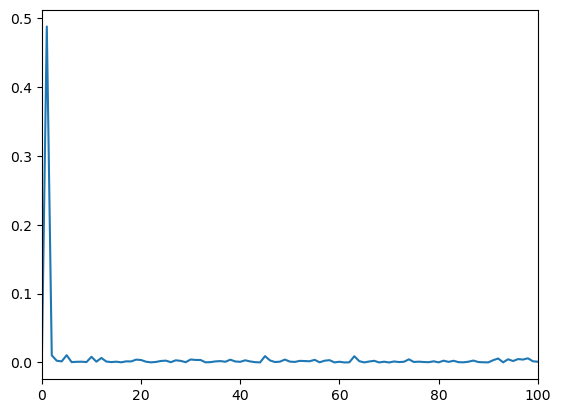
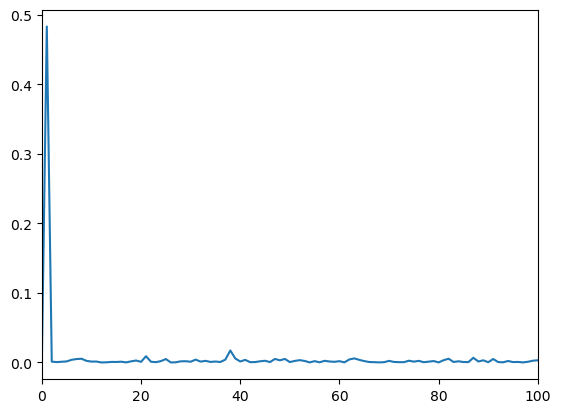
Update documentation

diff --git a/searchindex.js b/searchindex.js
@@ -1,1 +1,1 @@
-Search.setIndex({docnames:["ODE/1stODE","ODE/2ndODE","ODE/Laplace","ODE/Special_function","ODE/Sturm_Liouville","PDE/Fourier_Transform","PDE/Heat_equation","PDE/Laplace_equation","PDE/Wave_equation","README","content","intro","markdown","markdown-notebooks","notebooks"],envversion:{"sphinx.domains.c":2,"sphinx.domains.changeset":1,"sphinx.domains.citation":1,"sphinx.domains.cpp":3,"sphinx.domains.index":1,"sphinx.domains.javascript":2,"sphinx.domains.math":2,"sphinx.domains.python":2,"sphinx.domains.rst":2,"sphinx.domains.std":2,"sphinx.ext.intersphinx":1,"sphinxcontrib.bibtex":7,sphinx:56},filenames:["ODE/1stODE.md","ODE/2ndODE.md","ODE/Laplace.md","ODE/Special_function.md","ODE/Sturm_Liouville.md","PDE/Fourier_Transform.ipynb","PDE/Heat_equation.md","PDE/Laplace_equation.md","PDE/Wave_equation.md","README.md","content.md","intro.md","markdown.md","markdown-notebooks.md","notebooks.ipynb"],objects:{},objnames:{},objtypes:{},terms:{"00044472":5,"000897":[],"001":3,"001020":[],"00146583":[],"002986":[],"003242":[],"004372":[],"005068":5,"00951841":[],"020358":[],"03115555":[],"0390407":[],"04192934":[],"04475298":[],"06939441":[],"08225842":[],"08246967":[],"0th":[2,3],"0x103b4c4f0":[],"0x103ee1490":[],"0x1041099a0":[],"0x10422c4f0":5,"0x1042f94f0":[],"0x104663f70":[],"0x1047cf4f0":[],"0x104d22520":14,"0x105418ca0":[],"0x105c99ca0":[],"0x1084a3f70":[],"0x1093454f0":[],"0x111cbd460":[],"0x1226221f0":[],"100":[3,4,5,14],"1000":[3,4,5],"103":3,"104":3,"105":3,"106":3,"108":3,"114":3,"115":3,"122":3,"126":3,"127":3,"1298":5,"132":3,"133":3,"137":3,"144":6,"145":6,"146":6,"151":6,"153":6,"164":6,"1717":8,"175":8,"1783":8,"1803":4,"1809":4,"181":8,"1822":6,"184":8,"185":8,"1855":4,"187":8,"1882":4,"189":8,"191":8,"195":8,"196":8,"19680801":14,"1982":3,"199":8,"1st":[1,2,3,6,11],"2017":[11,12],"205":8,"206":8,"213":7,"215":7,"217":7,"220":7,"222":7,"252729":[],"2a_":1,"2a_0":1,"2a_n":1,"2as":2,"2dx":4,"2nd":[0,2,3,6,8,11],"2pi":4,"2sy":2,"2t_":2,"2ux":0,"2xt":3,"2xy":1,"2y_":8,"30x":3,"35x":3,"401871":5,"429565":[],"437844":[],"472986":[],"4ae":1,"4sy":2,"4t_":2,"546832":[],"57721566":3,"578260":[],"94978566":[],"95638574":[],"96410867":[],"9874316":5,"9ae":1,"\u03bb":3,"\u8f38\u51fa\u7d50\u679c":5,"case":[0,2,3,4,6,7,8],"class":11,"default":[12,13],"final":[0,1,2,4,6],"float":[3,5],"fran\u00e7oi":4,"function":[0,1,6,7,8,11,12],"h\u00f4pital":3,"import":[0,1,2,3,4,5,6,11,14],"int":[0,1,2,4,6],"long":[0,1,3,4,8],"new":[2,3,4,7],"return":5,"short":10,"try":[1,2,3,4,6,8],"while":[0,3,4,6,7,8],Adding:8,But:[3,14],For:[0,1,2,3,4,6,7,8,12,14],ODE:[2,3,4,6,8,11],ODEs:[0,1,2,3,4,11],One:[0,1,2,3,4,6,7,8],P_s:0,Such:6,That:[1,2,6,8,13],The:[0,2,6,7,8,11,12,13],Then:[0,1,2,3,4,6,8],There:[0,1,2,3,4,10,11,12,14],These:[4,8],Use:0,Using:[0,1,2,4,6,7,8],With:[1,6,7,8,13],_0e:1,__init__:5,_ioncontext:14,a_0:[3,6],a_1:[1,3,4],a_1i:4,a_2:[1,4],a_2i:4,a_even:3,a_i:1,a_k:[4,5,8],a_n:[1,3,4,6,8],a_nx:3,abil:2,abl:1,about:[0,1,2,3,4,6,8,12,13,14],abov:[0,1,2,3,4,6,7,8,11],ac_2:4,acceler:[0,3],accept:12,accord:[0,1,2,3,4,6,8],accuraci:4,achiev:4,act:2,actual:[2,4],add:[6,12],add_:14,addit:[1,2,3,4,6],adiabat:0,adjac:8,adjoint:4,advanc:[11,12],advantag:0,advect:6,after:[2,4],again:[0,1,2,3,6,12],against:8,air:0,alambert:8,alembert:11,algebra:[1,2],align:[0,1,2,3,4,6,7,8,14],all:[0,1,2,3,4,6,8,11,12,13],allow:12,along:[1,3,6,8],alpha:[0,1,2,6,8],alpha_:6,alreadi:[0,2,12],also:[0,1,2,3,4,6,7,8,11,12,13,14],altern:[1,3,7],although:4,alwai:[0,4,6,8],amount:0,amplif:3,amplitud:[3,4],analysi:[0,6,11],analyt:[0,11],analyz:1,angl:0,angular:3,ani:[0,1,2,3,4,8,12,13],anoth:[0,1,2,3,4,12],answer:[0,1,2],appar:[1,3],appear:6,appli:[0,1,2,3,4,6,7,8,11],applic:[0,3,6],approach:[0,1,4,6,7,8,11],approx_i:4,approxim:4,arang:5,arbitrari:3,area:[1,3,4],ares:6,argmax:5,argument:3,aris:[2,3],around:[1,3,4],arrai:14,asarrai:5,assign:8,associ:[1,12],assum:[0,1,2,3,4,6,7,8],atmospher:[0,1,2,3,8,11],atom:6,attempt:[6,8],au_x:6,averag:[2,3],axes:14,axi:4,b_1:4,b_1y:4,b_2:4,b_2y:4,b_k:[4,5,8],b_n:[4,6,8],b_ne:6,back:[0,1,2,3,6,7,8],background:0,balanc:[0,6],ballist:0,bar:4,base:[0,1,2,3,4,11,13],basi:[2,4,6],basic:11,becaus:[2,3,6,8],becom:[2,3],been:[2,3,4],befor:[1,2],begin:[0,1,2,3,4,6,7,8,14],behind:1,being:12,below:[0,1,2,3,4,7],bernard:0,bernoulli:11,bessel:[4,7,11],bessel_output:3,beta:[1,2,6,8],better:1,between:[0,1,2,3,4,6,8],bib:12,bibliographi:12,bibtex:12,big:6,bit:1,block:[12,13],book:[12,13,14],both:[0,1,2,3,6,7,8,11,12],bottom:2,bound:[2,3,4,6],boundari:[0,1,6,7,8,11],box:12,build:12,built:[12,13],buoyanc:0,butterfli:0,by_1:1,by_2:1,c_0:[3,4],c_1:[1,2,3,4],c_1e:[1,2,4],c_1x:1,c_1y:1,c_1y_1:1,c_2:[1,2,4],c_2e:[1,2,4],c_2x:1,c_2y:1,c_2y_2:1,c_3:[1,3],c_3e:1,c_4:1,c_4e:1,c_5:3,c_7:3,c_k:[4,5],c_n:[3,4,6,7],c_p:0,c_v:0,calcul:[0,1,2,3,4,8],calculu:11,call:[0,1,2,3,4,6,12],can:[0,1,2,3,4,6,7,8,12,13,14],care:6,carri:[0,6],cartesian:7,cast:5,categor:[0,1,11],categori:[6,11],caus:[3,6],cbook:5,cdot:[1,2,3,6],cell:12,cengag:[11,12],center:[1,4],central:8,certain:[0,1,2,4,6,7,8],certainli:0,chain:7,challeng:1,chang:[0,1,4,6,8],chao:[0,4],chapter:[1,2,3,4,6,7],character:0,characterist:[1,2,4,6,11],charl:4,check:[0,3,14],choic:[1,3],choos:[3,6,8],chosen:[4,6],circul:[0,2,3,4],circular:1,cite:12,classic:1,close:[0,1,4,6],cmap:14,code:[4,13],coef:4,coeffici:[2,3,6,8,11],cold:14,collect:3,color:14,combin:[0,1,3,4,6,7,8],come:[0,6],command:[12,13],common:0,commonmark:12,compar:[0,1],complet:[0,1,3,4,7,8],complex:[2,3,5,12],complexwarn:5,complic:[1,4,6,8],compon:2,comput:12,concentr:3,concept:[0,1,4],conclus:4,condit:[0,1,2,6,11],conjug:[1,5],connect:[0,2,4],conserv:[0,6,8],consid:[0,1,2,3,6,7,8],consin:8,consist:[2,6],constant:[0,2,3,4,6,7,8,11],constrain:[1,6],constraint:[3,6],content:[12,13],continu:[1,4],contribut:4,convect:[0,2],conveni:1,converg:[1,4],convert:[2,4,6,8,13],convolut:[4,11],coolwarm:14,coordin:[0,1,2,3,4,7,8],core:3,correspond:[0,1,2,3,4,7,8],cos:[0,1,2,3,5,6,7,8],cosh:2,count2:3,count:3,counteract:0,counterpart:2,cours:[0,1,3,4],covari:4,cover:[0,1,2,3,4,10],cramer:1,creat:[2,14],criteria:2,cross:[0,1,4],current:[0,1],custom_lin:14,cycl:4,cycler:14,cyclon:[0,3],cylind:[3,4,11],cylindr:3,data:[2,4,14],deal:[2,7,8],decid:[0,1,4],decompos:[1,2,3,7],decomposit:[1,2,3],default_env2:5,defin:[0,1,2,3,4,7,12,13],definit:[0,2,4],delta:[6,11],delta_:2,demonstr:[4,6,8],denomin:2,denot:3,densiti:[0,6],depart:2,depend:[1,6,12],deriv:[0,1,2,3,4,6,8],describ:[1,4,8],detail:[0,1,2,3,4,13],determin:[0,1,2,3,4,6,8],develop:[3,6,8],did:6,differ:[0,2,3,4,6,11,12],differenti:[0,1,2,3,4,6,11],diffus:[3,4,7,11],dim:3,dimens:[0,6,11],dirac:11,direct:[0,3,6,7,8,13],directli:[1,12],dirichlet:11,discard:[2,5],discontinu:2,discret:4,discuss:[1,3,4],dispers:[0,11],displac:[1,8],displai:[12,13],distinct:4,distribut:6,dive:2,divid:[0,2,4,6,7],doc:12,document:[12,13,14],doe:[1,2,4,6],doesn:[1,2,6,12],doing:6,dollar:14,domain:[4,6,7],don:[2,3,4],done:[0,3],down:[0,6],drag:0,drive:2,drop:[1,3,6],dt_:2,due:3,durat:2,dure:[0,4],dynam:[0,3,4,8],each:[0,1,2,3,4,6,7,8],earth:[0,1,3,4,6],easi:[0,4,6],easier:1,easiest:0,easili:[0,1,3,4,6,8],ecosystem:12,edg:[4,7],effect:[2,3,4],effici:[0,3],eigen:[3,4,6],eigenfunct:11,eigenvalu:3,either:6,electromagnet:3,emb:14,emit:1,enabl:[1,2,3],end:[0,1,2,3,4,5,6,7,8,14],energi:[0,3,4,6],engin:[4,6,11,12],enough:[1,6],enso:1,ensur:6,entir:[0,1,2,3,4,6,7,8,12],env:5,environ:6,environment:6,epsilon:2,equal:[1,2,3,4,6,7],equat:[0,2,3,4,11],equilibrium:[4,6],equip:11,equiv:3,equival:[0,4,6,8],era:4,escap:14,especi:[6,8],eta:8,etc:14,euler:[3,11],evalu:6,even:[0,3,4,11],everi:[1,4],evid:[1,2,4],evolv:[1,6],exactli:[0,2],examin:[0,3],exampl:[3,11,12,14],except:[1,8],exchang:[0,6],execut:13,exist:[0,2,4,6,8,11,12],exp:5,expand:[0,3],expans:[1,3,11],expect:[6,8,11],experi:[0,2],expert:2,explain:4,expon:[1,3],exponenti:2,express:3,extend:6,extens:12,extern:[1,6,8],extrem:[2,4],eyewal:2,f_1:1,f_2:1,f_i:1,f_n:1,face:0,fact:[3,6],factor:[0,2,4],fall:[0,6],familiar:6,famou:[2,3,4],far:[0,6],featur:[3,4],feel:3,few:[0,1,3,4,6,10],fft:5,field:[0,2],fig1:0,fig:[4,14],figsiz:14,figur:[0,1,2,3,4,7],file:13,filter:[2,4,11],find:[0,1,2,3,6,7,8,11],finit:[2,6,8],fire:1,first:[0,1,2,3,4,6,7,8,11,12],fix:[8,14],flat:4,flatten:6,flavor:12,float64:3,flow:0,flowchart:2,fluid:3,flux:6,focu:[2,3],follow:[0,1,2,3,4,6,7,8,12,13],forc:[0,1,2,8,11],forget:3,form:[2,3,6,7,8,11],formul:11,formula:11,forth:[0,2,3],found:[0,4],four:7,fourier:[2,3,6,8,11],frac:[0,1,2,3,4,6,7,8],fraction:2,free:0,frequenc:[2,4],friction:6,from:[0,1,2,3,4,6,8,14],fundament:1,further:[0,1,3,4],gamma:3,gap:2,gas:0,gaussian:6,gdt:0,gener:[0,2,4,8,11],geometr:4,geometri:3,geophys:3,geq2:3,geq:3,get:[0,1,2,3,6,7,13],gibb:11,give:[0,1,2,3,4],given:[1,2,3,4,6,7,8],goal:[2,6],goe:[2,4],going:8,gonna:[4,8],gradient:6,gradual:6,graviti:0,great:4,greater:2,green:11,greenhous:0,grid:3,growth:2,guess:[1,2,4,6],guid:14,hack:3,had:0,hadlei:3,half:6,hand:[0,1,2,3,6],handl:2,happen:[2,3,6],hard:[3,7,8],harmon:[1,3,7],has:[0,1,2,3,4,6,7,8,12],hat:[1,6],have:[0,1,2,3,4,6,7,8,13],heat:[0,1,3,7,8,11],heavili:4,heavisid:11,height:2,help:[0,1,11],here:[0,1,2,3,4,6,8,12,14],hermit:4,hermitian:4,high:[2,4],higher:[0,1,2,3,4,6,11],hint:[0,2,3],his:[0,4],histori:11,hold:1,holdgraf_evidence_2014:12,homogen:[3,4,6,8,11],hook:8,hopefulli:11,hot:14,how:[0,1,4,6,7,8,10,11,13],howev:[0,1,4,6],html:14,hurrican:[2,4],hwang:2,hyperbol:11,i2x:1,ib_n:6,idea:[0,8],ideal:0,ident:[2,4],identifi:1,ignor:0,iii:[4,11],ikx:6,illustr:3,imag:[5,14],imagin:1,imaginari:[3,5],implement:4,impli:[1,4,6,8],implicit:11,implicitli:0,imposs:0,impuls:11,includ:[0,1,6,11,12,13,14],increas:[1,4],increment:8,inde:[1,3,4],independ:[0,3,6,8,11],index:3,indic:[0,1,2,3,4,6,7,8],induct:3,infer:7,infin:2,infinit:[2,3,4,6],inflow:3,influenc:3,inform:[0,12,13,14],infti:[0,2,3,4,6,7,8],inhomogen:[3,4],init:[12,13],initi:[0,6,11],inner:[3,4],input:12,insert:12,insid:12,inspect:[0,1,2],instead:[1,4,6],instruct:13,int_0:2,int_:[2,3,4,6,7,8],int_a:2,integ:[0,3,4],integr:[0,1,2,3,4,6,8],integrat:0,intensif:3,interact:14,interest:[2,3,4,6],interpret:1,interv:1,intro:12,introduc:[1,2,3,4,6,7],intuit:[2,6],invers:[2,6],involv:1,ion:14,ipynb:12,itcz:[0,4],its:[0,1,2,3,4,6,8,12],j_0:3,j_4:3,j_n:3,jacobian:8,jacqu:4,jean:8,joseph:[4,6],julia:4,jump:[2,4],jupyt:[12,13,14],jupytext:[12,13],just:1,kappa:6,kappa_:6,kappa_c:6,kappa_ct:6,kct:8,keep:[6,14],kei:[1,6],kernel:[6,12,13],kind:[0,1,3,4,6,12],know:[0,1,2,3,4,6,7,8],known:[0,3,8],ku_:6,kv_:6,la_:14,label:[4,5],lambda:[3,4,6,7,8],lambda_n:[4,7],langl:4,languag:[0,12],laplac:[1,3,4,11],last:[0,3,4,6],later:[1,2,3,4,6],law:[0,6,8],lead:[0,1,2,3,4,6],learn:[0,1,2,4,11,12],least:[0,1,6],leav:[0,1,3,4,6,8],left:[0,1,2,3,4,6],legend:[5,14],legendr:[4,7,11],legendre_even:3,length:[3,4,8],leq:[4,6,7,8],less:[2,12],let:[0,1,2,3,4,6,7,8,13],leverag:[1,2,3,4],lib:5,like:[0,1,2,3,4,6,12,13],lim:3,lim_:[3,4],limit:[0,2,6],line2d:14,line:[3,11,12,13,14],linear:[1,2,4,6,7,8,11],linearli:[1,3],linspac:14,liouvil:[3,6,7,11],local:[1,2,6],locat:[0,1,4],logspac:14,longest:4,longrightarrow:[2,4],look:[0,2,3,4,6,8,12],loop:2,lorenz:0,lot:[0,1,2,4,14],lower:[0,2,3,7],luckili:0,machin:2,maclaurin:3,main:[1,11],make:[0,1,2,4,6,8,14],mani:[0,1,2,3,10,12,13],map:2,markdownfil:13,markedli:12,markup:12,mask:2,match:4,materi:[6,8],math:[0,4,11,14],mathbb:[4,6],mathbf:1,mathcal:[2,6],mathemat:[2,4,6,11,12],mathematician:4,mathrm:0,matplotlib:[5,14],matrix:[4,5,8],maximum:[3,4],mbox:14,mean:[0,1,2,6,8,14],mechan:4,medium:[4,14],memor:4,mention:1,mere:0,meridion:3,metadata:12,method:[1,2,8],middl:2,might:1,mimic:1,miniconda3:5,minimum:4,mix:6,mode:[3,6],model:[0,4,6],molecular:6,moment:4,momentum:[3,4],more:[0,1,2,3,4,6,8,11,12,13,14],moreoev:12,most:[0,1,3,4,8,12],motion:1,move:[0,6],much:[1,3,8],multipl:[0,1,2,3,4,8],multipli:[0,1,2,3,4,5],must:[4,12],mydirectivenam:12,n_max:3,nabla:[3,7],name:[4,8,12],nearbi:6,nearli:[2,4],necessari:[0,2,6],necessarili:6,need:[0,1,2,3,4,6,13],neighbor:[4,6],neil:[11,12],neq:[3,4,6],neumann:11,nicknam:2,nj_:3,nois:[2,5],noisi:2,non:[0,1,2,3,4,7],nonhomogen:11,nontrivi:3,nonzero:[3,4],normal:[3,5],note:12,notebook:12,noth:[4,7],notic:[0,1,2,4,6],now:[0,1,2,4,6,8],np_:3,nth:3,number:[2,3,4,6,8],numer:[0,2,11],numpi:[5,14],object:0,observ:[1,2,3,4,6,8],obtain:[0,3,4],occupi:6,occur:4,ocean:1,odd:[3,8],off:13,omega:7,onc:12,one:[0,1,2,3,4,6,7,8,12],oneil17:[11,12],onli:[0,1,3,4,6,7,8,12],onto:[2,6],open:1,oper:[0,2,4],opposit:[7,8],optic:8,order:[2,3,4,6,8,11],ordinari:[0,1,4,11],organ:2,origin:[1,2,6,8],oscil:1,other:[0,1,2,3,4,7,8,13],otherwis:[0,1],our:[0,2,4,6],out:[0,2,4,6,14],output:[12,13],outsid:[4,6],over:[1,2,3,4,6,8],overturn:0,p_0:3,p_1:3,p_2:3,p_3:3,p_4:3,p_n:3,packag:5,page:[12,13],panel:[2,7],paper:3,parabol:[3,4],paramet:[1,4,6],part:[2,3,5,6,7,11],partial:[0,3,4,6,8,11],particl:1,particular:[0,11],partit:0,path:[0,12,13],pattern:12,peopl:4,perhap:[1,2],period:4,peter:[11,12],phenomena:3,phenomenon:[0,11],phi:3,physic:[2,3,4,6,8,11],pictur:[2,4],piec:1,place:[0,6],plai:[3,4],plain:0,plane:[8,11],plate:6,plot:[3,4,5,14],plt:[5,14],plu:2,pm2i:1,point:[0,1,2,4],poisson:11,polar:[3,7],pole:3,polynimi:11,polynomi:[1,4,7],posit:[4,8],possibl:[0,1,2,6],post:14,potenti:[0,11],power:[1,3,11,12],practic:[0,3,4,6,8],pre:12,precis:[0,4],predict:[1,4],predictor:4,prerequisit:11,presenc:13,pressur:0,previou:[1,2,6],previous:4,principl:[1,4],print:[5,12,13],probabl:4,problem:[0,3,4,11],procedur:[0,3],process:[2,3],process_tim:5,product:[1,3,4],project:[2,6],proof:[0,1,2,3],prop_cycl:14,propag:8,proper:[0,4],properli:[4,8,12],proport:[0,6],prove:[1,3,4],provid:[0,2,4],psi:[3,4,6,8],psi_:6,puls:2,purpos:[6,12],pursuit:0,put:[3,6],pyplot:[5,14],python3:5,quantiti:2,quantum:[3,4],question:[0,3,4,6,8,11],quick:0,quickli:6,r_1:1,r_1x:1,r_2:1,r_2x:1,radi:0,radial:3,radiat:[1,4,6],randn:14,random:[5,14],rang:[3,4,14],rangl:4,rare:[0,7],rate:[2,6],ration:6,raw:[2,5],rayleigh:0,rcparam:14,rdt:0,reader:[0,1,2,3,4,6,7,8],real:[2,4,5,8,11],rearrang:[0,2,3,6],reason:3,recal:[1,2,3,4,6],recurr:[1,11],redistribut:6,reduc:[0,4],refer:[3,12],region:6,regress:4,regular:[4,12],rel:[0,12],relat:[0,1,7,8,11],relationship:[3,11],remain:2,remov:[0,4],render:12,reorgan:[0,1,2,3,4,6],repeat:2,replac:[0,3],repres:[0,1,3,4,6,8],reproduc:14,requir:[0,1,11],research:11,reshap:4,resolv:4,respect:[0,3,6,8],respons:[0,1],rest:[12,13],restor:8,result:[1,3,4,6,8,12],retain:4,retangl:[],retriev:3,rewrit:[0,1,2,3,8],rewritten:[6,8],rho:6,riccati:11,rid:0,right:[0,1,2,3,4,6],rightarrow:[3,4,6,8],rise:3,river:0,role:[2,3,4],rolenam:12,root:2,rossbi:0,rule:[1,2,3,7],run:[2,12,13],s_1t:2,s_2t:2,sai:[0,2],same:[0,1,2,3,4,6,7,8,12],sampl:14,satisfi:[0,3,4,6,7,8],scale:6,scatter:4,scenario:1,schemat:[0,1,2],schubert:3,scienc:[0,2,3,6,8,11],scientif:[4,11],sec:[0,1],second:[1,2,3,4,5,6,7,8,11],section:[1,4,10],see:[0,1,2,3,6,7,12,13,14],seed:14,seen:1,self:4,separ:[3,4,6,7,8,11],seri:[2,11],serv:12,server:1,set:[1,2,3,4,6,7,8,11],setup:[2,4,11],sever:3,shape:2,share:[0,1,2,4,5,8],shift:[4,11],shock:2,should:[0,1,2,4,6,13],show:[0,1,2,3,4,8,13],shown:1,side:[0,1,2,3,6,7],sign:[4,6,7,8,14],signal:[2,4,5,6],signific:3,sim:[3,6,8],similar:[0,1,2,3,4,6,7,8,12],similarili:6,similarli:[0,2,3,4,8],simpl:[1,4,6,8],simpler:8,simplest:[1,3,6,12],simpli:[0,1,4,6],simplic:6,simplif:6,simplifi:[2,3],sin:[0,1,2,3,6,7,8],sinc:[0,1,2,3,4,7],singular:4,sinh:[2,7],sit:1,site:5,size:[2,5,6],skill:11,slight:12,slightli:[2,8],small:[2,4,6,8,12],smaller:3,smooth:[2,6],solut:[0,2,7,11],solv:[0,1,2,3,4,6,7,8,11],solvabl:6,some:[0,2,3,4,6,11,12,14],someth:[2,3],sometim:[2,3],sourc:[1,6],space:[1,3,4,6,11],span:[1,4,12],spatial:6,special:[0,1,2,4,6,7,8,11],specialfunct:3,specif:[0,6,8,12],specifi:[2,4,7],spectrum:11,speed:[0,8],sphere:3,spheric:3,sphinx:12,spread:4,sqrt:[0,1,2,3,4,6,8],squar:[0,4,6],sst:[1,2],st_:2,stage:1,stand:12,start:[0,1,2,5,6,13],state:[1,14],statist:4,stead:6,step:[0,1,2,3,4,6],still:[1,2],store:12,stove:1,str:5,straightforward:0,stretch:[4,8],strict:4,string:[8,11],structur:[3,6,7,12],student:11,studi:[2,3,6],sturm:[3,6,7,11],subject:0,subplot:[5,14],substitut:[0,1,2,3,4,6,7,8],subtract:[2,3],suggest:[1,3,4,6,8],sum:[1,3,8],sum_:[1,3,4,6,7,8],sum_i:1,sum_legendre_even:3,sum_x:3,summat:4,superposit:1,support:13,suppos:[6,8],sure:14,surround:4,swap:4,swim:0,swimmer:0,syllabu:12,syntax:12,system:[0,1,4],t_0:2,t_1:[2,6],t_2:[2,6],t_i:2,t_k:8,t_n:[6,8],take:[0,1,2,3,4,5,6],taken:1,talk:1,tan:[0,1,4],tangenti:3,tau:[2,6],taylor:[1,3],techniqu:[0,1,2,7,11],tell:[0,1,2,4,6],temperatur:[0,1,3,4,6],tempor:[6,8],term:[0,1,2,3,4,6,8],termin:0,test:[0,4,11],tex:14,text:[2,4,12,13],textbook:4,textrm:[2,3,4,6,7,8],than:[0,1,2,3,4,6],thei:[1,3,4,12],them:[0,1,3],theorem:[6,7,11],therefor:[0,1,2,3,4,6,7,8],thermal:[4,6],thermodynam:0,theta:[3,7],thi:[0,1,2,3,4,6,7,8,10,11,12,13,14],thin:4,thing:[3,4,13],think:[2,3,6,8],third:[1,3,4],those:[1,7,12],three:[0,1,2,4,6,11],through:[0,1,2,3,4,6,11],thu:6,time:[0,1,2,5,6,12],ting:2,tip:[2,10],todai:[0,1,2,7],togeth:[6,8],tool:12,top:[2,13],topic:11,total:7,tradit:0,trajectori:0,transform:[0,1,3,6,8,11],transpos:4,transvers:[0,2,3,4],travel:0,treat:13,trick:6,trigonometr:1,trivial:[1,3,4],tropic:[0,3,4],truncat:[3,4],twice:8,two:[0,1,2,3,4,6,7,8,12,13],type:[0,1,6,11],typic:3,u_1:1,u_2:1,u_i:7,u_r:7,u_t:6,u_x:6,u_xx:6,ubiquit:8,unbound:3,uncertainti:4,undermin:1,understand:[1,6,13],undetermin:[1,2],uneven:3,unfortun:0,uniqu:[2,4,11],unit:2,until:2,upper:[2,7],use:[0,1,2,3,4,6,7,12],used:[0,1,2,3,4,11,12],useful:3,user:5,uses:[12,13],using:[0,1,2,3,4,6,7,8,13],usual:[0,1,2,3,4,6],v_t:6,v_x:6,v_xx:6,valid:12,valu:[0,3,4,5,8,11],vanish:3,vari:6,variabl:[0,3,4,6,7,8,11],varianc:4,variat:[1,4,6,12],varieti:11,varphi:[0,4],varphi_k:4,varphi_n:4,vector:[0,4],vein:[0,6],veloc:[0,1,8],veri:[0,1,2,3,6,11,12],verifi:6,versa:6,vertic:[3,7],vibrat:8,vice:6,visual:[2,3,4,6],vmatrix:[1,4],volum:0,wai:[0,1,2,3,4,6,7,10],walk:[0,1,2,4,11],want:[4,6,7,14],warm:1,wave:[0,2,4,6,7,11],wavi:3,weber:3,week:11,weight:3,well:[0,8,14],were:4,what:[1,4,6,11],when:[0,1,2,3,4,6,7,12,13],where:[0,1,2,3,4,6,8],wherea:12,whether:[4,12],which:[0,1,2,3,4,6,7,8,11,12,13],white:5,white_nois:5,who:0,whole:[0,7],why:[1,3,6,8],wide:[0,1,2,3,11],width:4,wiggl:[2,4],wikipedia:1,wind:3,window:[2,11],within:6,without:[0,1,4,6],wok:1,work:[0,11,12,14],world:2,worri:0,would:[0,2,4],write:[0,6,10,12,13],written:[0,1,2,3,4,6,7,8,12,13],wronskian:[4,11],x_0:[0,1,8],x_i:1,x_j:1,x_n:[6,7,8],x_t:8,xai:1,xdx:0,xlim:[4,5],xp_n:3,xyt:6,y_1:[0,1],y_2:[0,1],y_g:1,y_i:1,y_n:[6,7,8],y_p:1,y_t:8,y_x:8,yen:2,yield:[0,2],ylim:4,you:[0,1,11,12,13,14],your:[13,14],zero:[1,2,3,4,6,7],zonal:3},titles:["Week 1 and 2: 1st-order ODE","Week 3 and 4: 2nd-order ODE","Week 5 and 6: Laplace Transform","Week 9 and 10:  Special Functions","Week 7 and 8:  Sturm-Liouville Theorem: Eigenfunctions and Fourier Series","&lt;no title&gt;","Week 11:  Heat Equation","Week 13:  Laplace Equation","Week 12:  Wave Equation","Applied_Math","Content in Jupyter Book","Syllabus","Markdown Files","Notebooks with MyST Markdown","Content with notebooks"],titleterms:{"1st":0,"2nd":1,"case":1,"function":[2,3,4],Adding:12,ODE:[0,1],The:[1,3,4],Using:12,add:13,alembert:8,analysi:4,applied_math:9,approach:2,basic:1,bernoulli:0,bessel:3,block:14,book:[10,11],both:4,boundari:4,categori:[0,1],cell:13,characterist:8,citat:12,code:[12,14],coeffici:[1,4],complex:1,condit:[4,7,8],constant:1,content:[10,14],continu:2,convect:6,convolut:2,cos:4,cours:11,creat:13,delta:2,differ:1,diffus:6,dirac:2,direct:12,dirichlet:7,disk:7,dispers:8,distinct:1,eigenfunct:4,equat:[1,6,7,8],euler:1,exact:0,exampl:[0,1,2,4,6,8,13],execut:12,exist:1,expans:4,file:12,find:4,forc:6,form:[0,1,4],formula:6,fourier:4,gener:[1,3],gibb:4,green:2,heat:6,heavisid:[2,4],histori:6,homogen:[0,1],how:2,iii:1,impuls:2,inclus:6,independ:1,initi:[1,2,7,8],insul:6,jupyt:10,laplac:[2,7],legendr:3,line:8,linear:0,liouvil:4,markdown:[12,13,14],medium:8,metadata:13,modifi:3,motion:8,myst:[12,13,14],nonhomogen:[1,6],note:[3,4],notebook:[13,14],order:[0,1],origin:3,orthogon:4,other:6,outlin:11,output:14,particular:1,phenomenon:4,piecewis:2,plane:6,polynomi:3,power:4,problem:[1,2,6,7,8],process:6,proof:4,properti:1,quickli:13,real:[1,6],rectangl:7,recurr:3,relat:3,relationship:8,repeat:1,riccati:0,role:12,root:1,separ:0,seri:[1,3,4],setup:[7,8],shift:2,sin:4,solut:[1,3,4,6,8],some:1,space:[2,8],special:3,spectrum:4,stick:6,string:6,structur:8,sturm:4,syllabu:11,tabl:2,test:1,theorem:[1,2,4],time:8,transform:[2,4],type:4,unbound:8,uniqu:1,valu:[1,2],wave:8,week:[0,1,2,3,4,6,7,8],weight:4,what:[0,2,12],window:4,work:2,wronskian:1,yaml:13,your:12}})
+Search.setIndex({docnames:["ODE/1stODE","ODE/2ndODE","ODE/Laplace","ODE/Special_function","ODE/Sturm_Liouville","PDE/Fourier_Transform","PDE/Heat_equation","PDE/Laplace_equation","PDE/Wave_equation","README","content","intro","markdown","markdown-notebooks","notebooks"],envversion:{"sphinx.domains.c":2,"sphinx.domains.changeset":1,"sphinx.domains.citation":1,"sphinx.domains.cpp":3,"sphinx.domains.index":1,"sphinx.domains.javascript":2,"sphinx.domains.math":2,"sphinx.domains.python":2,"sphinx.domains.rst":2,"sphinx.domains.std":2,"sphinx.ext.intersphinx":1,"sphinxcontrib.bibtex":7,sphinx:56},filenames:["ODE/1stODE.md","ODE/2ndODE.md","ODE/Laplace.md","ODE/Special_function.md","ODE/Sturm_Liouville.md","PDE/Fourier_Transform.ipynb","PDE/Heat_equation.md","PDE/Laplace_equation.md","PDE/Wave_equation.md","README.md","content.md","intro.md","markdown.md","markdown-notebooks.md","notebooks.ipynb"],objects:{},objnames:{},objtypes:{},terms:{"00044472":[],"000897":[],"001":3,"001020":[],"00146583":[],"002986":[],"003242":[],"004233":5,"004372":[],"005068":[],"00951841":[],"020358":[],"03115555":[],"0390407":[],"03946784":5,"04192934":[],"04475298":[],"06939441":[],"08225842":[],"08246967":[],"0th":[2,3],"0x103b4c4f0":[],"0x103ee1490":[],"0x1041099a0":[],"0x10422c4f0":[],"0x1042f94f0":[],"0x104663f70":[],"0x1047cf4f0":[],"0x104d22520":[],"0x105418ca0":[],"0x105c184f0":5,"0x105c99ca0":[],"0x1084a3f70":[],"0x108923700":14,"0x1093454f0":[],"0x111cbd460":[],"0x1226221f0":[],"100":[3,4,5,14],"1000":[3,4,5],"103":3,"104":3,"105":3,"106":3,"108":3,"114":3,"115":3,"122":3,"126":3,"127":3,"1298":5,"132":3,"133":3,"137":3,"144":6,"145":6,"146":6,"151":6,"153":6,"164":6,"1717":8,"175":8,"1783":8,"1803":4,"1809":4,"181":8,"1822":6,"184":8,"185":8,"1855":4,"187":8,"1882":4,"189":8,"191":8,"195":8,"196":8,"19680801":14,"1982":3,"199":8,"1st":[1,2,3,6,11],"2017":[11,12],"205":8,"206":8,"213":7,"215":7,"217":7,"220":7,"222":7,"226":7,"252729":[],"265382":5,"2a_":1,"2a_0":1,"2a_n":1,"2as":2,"2dx":4,"2nd":[0,2,3,6,8,11],"2pi":4,"2sy":2,"2t_":2,"2ux":0,"2xt":3,"2xy":1,"2y_":8,"30x":3,"35x":3,"401871":[],"429565":[],"437844":[],"472986":[],"4ae":1,"4sy":2,"4t_":2,"546832":[],"57721566":3,"578260":[],"94978566":[],"95638574":[],"96410867":[],"98164155":5,"9874316":[],"9ae":1,"\u03bb":3,"\u8f38\u51fa\u7d50\u679c":5,"case":[0,2,3,4,6,7,8],"class":11,"default":[12,13],"final":[0,1,2,4,6],"float":[3,5],"fran\u00e7oi":4,"function":[0,1,6,7,8,11,12],"h\u00f4pital":3,"import":[0,1,2,3,4,5,6,11,14],"int":[0,1,2,4,6],"long":[0,1,3,4,8],"new":[2,3,4,7],"return":5,"short":10,"try":[1,2,3,4,6,8],"while":[0,3,4,6,7,8],Adding:8,But:[3,14],For:[0,1,2,3,4,6,7,8,12,14],ODE:[2,3,4,6,8,11],ODEs:[0,1,2,3,4,11],One:[0,1,2,3,4,6,7,8],P_s:0,Such:6,That:[1,2,6,8,13],The:[0,2,6,7,8,11,12,13],Then:[0,1,2,3,4,6,8],There:[0,1,2,3,4,10,11,12,14],These:[4,8],Use:0,Using:[0,1,2,4,6,7,8],With:[1,6,7,8,13],_0e:1,__init__:5,_ioncontext:14,a_0:[3,6],a_1:[1,3,4],a_1i:4,a_2:[1,4],a_2i:4,a_even:3,a_i:1,a_k:[4,5,8],a_n:[1,3,4,6,8],a_nx:3,abil:2,abl:1,about:[0,1,2,3,4,6,8,12,13,14],abov:[0,1,2,3,4,6,7,8,11],ac_2:4,acceler:[0,3],accept:12,accord:[0,1,2,3,4,6,8],accuraci:4,achiev:4,act:2,actual:[2,4],add:[6,12],add_:14,addit:[1,2,3,4,6],adiabat:0,adjac:8,adjoint:4,advanc:[11,12],advantag:0,advect:6,after:[2,4],again:[0,1,2,3,6,12],against:8,air:0,alambert:8,alembert:11,algebra:[1,2],align:[0,1,2,3,4,6,7,8,14],all:[0,1,2,3,4,6,8,11,12,13],allow:12,along:[1,3,6,8],alpha:[0,1,2,6,8],alpha_:6,alreadi:[0,2,12],also:[0,1,2,3,4,6,7,8,11,12,13,14],altern:[1,3,7],although:4,alwai:[0,4,6,8],amount:0,amplif:3,amplitud:[3,4],analysi:[0,6,11],analyt:[0,11],analyz:1,angl:0,angular:3,ani:[0,1,2,3,4,8,12,13],anoth:[0,1,2,3,4,12],answer:[0,1,2],appar:[1,3],appear:6,appli:[0,1,2,3,4,6,7,8,11],applic:[0,3,6],approach:[0,1,4,6,7,8,11],approx_i:4,approxim:4,arang:5,arbitrari:3,area:[1,3,4],ares:6,argmax:5,argument:3,aris:[2,3],around:[1,3,4],arrai:14,asarrai:5,assign:8,associ:[1,12],assum:[0,1,2,3,4,6,7,8],atmospher:[0,1,2,3,8,11],atom:6,attempt:[6,8],au_x:6,averag:[2,3],axes:14,axi:4,b_1:4,b_1y:4,b_2:4,b_2y:4,b_k:[4,5,8],b_n:[4,6,8],b_ne:6,back:[0,1,2,3,6,7,8],background:0,balanc:[0,6],ballist:0,bar:4,base:[0,1,2,3,4,11,13],basi:[2,4,6,7],basic:11,becaus:[2,3,6,8],becom:[2,3],been:[2,3,4],befor:[1,2],begin:[0,1,2,3,4,6,7,8,14],behind:1,being:12,below:[0,1,2,3,4,7],bernard:0,bernoulli:11,bessel:[4,7,11],bessel_output:3,beta:[1,2,6,8],better:1,between:[0,1,2,3,4,6,8],bib:12,bibliographi:12,bibtex:12,big:6,bit:1,block:[12,13],book:[12,13,14],both:[0,1,2,3,6,7,8,11,12],bottom:2,bound:[2,3,4,6],boundari:[0,1,6,7,8,11],box:12,build:12,built:[12,13],buoyanc:0,butterfli:0,by_1:1,by_2:1,c_0:[3,4],c_1:[1,2,3,4],c_1e:[1,2,4],c_1x:1,c_1y:1,c_1y_1:1,c_2:[1,2,4],c_2e:[1,2,4],c_2x:1,c_2y:1,c_2y_2:1,c_3:[1,3],c_3e:1,c_4:1,c_4e:1,c_5:3,c_7:3,c_k:[4,5],c_n:[3,4,6,7],c_p:0,c_v:0,calcul:[0,1,2,3,4,8],calculu:11,call:[0,1,2,3,4,6,12],can:[0,1,2,3,4,6,7,8,12,13,14],care:6,carri:[0,6],cartesian:7,cast:5,categor:[0,1,11],categori:[6,11],caus:[3,6],cbook:5,cdot:[1,2,3,6],cell:12,cengag:[11,12],center:[1,4],central:8,certain:[0,1,2,4,6,7,8],certainli:0,chain:7,challeng:1,chang:[0,1,4,6,8],chao:[0,4],chapter:[1,2,3,4,6,7],character:0,characterist:[1,2,4,6,11],charl:4,check:[0,3,14],choic:[1,3],choos:[3,6,8],chosen:[4,6],circul:[0,2,3,4],circular:1,cite:12,classic:1,close:[0,1,4,6],cmap:14,code:[4,13],coef:4,coeffici:[2,3,6,8,11],cold:14,collect:3,color:14,combin:[0,1,3,4,6,7,8],come:[0,6],command:[12,13],common:0,commonmark:12,compar:[0,1],complet:[0,1,3,4,7,8],complex:[2,3,5,12],complexwarn:5,complic:[1,4,6,8],compon:2,comput:12,concentr:3,concept:[0,1,4],conclus:4,condit:[0,1,2,6,11],conjug:[1,5],connect:[0,2,4],conserv:[0,6,8],consid:[0,1,2,3,6,7,8],consin:8,consist:[2,6],constant:[0,2,3,4,6,7,8,11],constrain:[1,6],constraint:[3,6],content:[12,13],continu:[1,4],contribut:4,convect:[0,2],conveni:1,converg:[1,4],convert:[2,4,6,8,13],convolut:[4,11],coolwarm:14,coordin:[0,1,2,3,4,7,8],core:3,correspond:[0,1,2,3,4,7,8],cos:[0,1,2,3,5,6,7,8],cosh:2,count2:3,count:3,counteract:0,counterpart:2,cours:[0,1,3,4],covari:4,cover:[0,1,2,3,4,10],cramer:1,creat:[2,14],criteria:2,cross:[0,1,4],current:[0,1],custom_lin:14,cycl:4,cycler:14,cyclon:[0,3],cylind:[3,4,11],cylindr:3,data:[2,4,14],deal:[2,7,8],decid:[0,1,4],decompos:[1,2,3,7],decomposit:[1,2,3],default_env2:5,defin:[0,1,2,3,4,7,12,13],definit:[0,2,4],delta:[6,11],delta_:2,demonstr:[4,6,8],denomin:2,denot:3,densiti:[0,6],depart:2,depend:[1,6,12],deriv:[0,1,2,3,4,6,8],describ:[1,4,8],detail:[0,1,2,3,4,13],determin:[0,1,2,3,4,6,8],develop:[3,6,8],did:6,differ:[0,2,3,4,6,11,12],differenti:[0,1,2,3,4,6,11],diffus:[3,4,7,11],dim:3,dimens:[0,6,11],dirac:11,direct:[0,3,6,7,8,13],directli:[1,12],dirichlet:11,discard:[2,5],discontinu:2,discret:4,discuss:[1,3,4],dispers:[0,11],displac:[1,8],displai:[12,13],distinct:4,distribut:6,dive:2,divid:[0,2,4,6,7],doc:12,document:[12,13,14],doe:[1,2,4,6],doesn:[1,2,6,12],doing:6,dollar:14,domain:[4,6,7],don:[2,3,4],done:[0,3],down:[0,6],drag:0,drive:2,drop:[1,3,6],dt_:2,due:3,durat:2,dure:[0,4],dynam:[0,3,4,8],each:[0,1,2,3,4,6,7,8],earth:[0,1,3,4,6],easi:[0,4,6],easier:1,easiest:0,easili:[0,1,3,4,6,8],ecosystem:12,edg:[4,7],effect:[2,3,4],effici:[0,3],eigen:[3,4,6],eigenfunct:11,eigenvalu:3,either:6,electromagnet:3,emb:14,emit:1,enabl:[1,2,3],end:[0,1,2,3,4,5,6,7,8,14],energi:[0,3,4,6],engin:[4,6,11,12],enough:[1,6],enso:1,ensur:6,entir:[0,1,2,3,4,6,7,8,12],env:5,environ:6,environment:6,epsilon:2,equal:[1,2,3,4,6,7],equat:[0,2,3,4,11],equilibrium:[4,6],equip:11,equiv:3,equival:[0,4,6,8],era:4,escap:14,especi:[6,8],eta:8,etc:14,euler:[3,11],evalu:6,even:[0,3,4,11],everi:[1,4],evid:[1,2,4],evolv:[1,6],exactli:[0,2],examin:[0,3],exampl:[3,11,12,14],except:[1,8],exchang:[0,6],execut:13,exist:[0,2,4,6,8,11,12],exp:5,expand:[0,3],expans:[1,3,11],expect:[6,8,11],experi:[0,2],expert:2,explain:4,expon:[1,3],exponenti:2,express:3,extend:6,extens:12,extern:[1,6,8],extrem:[2,4],eyewal:2,f_1:1,f_2:1,f_i:1,f_n:1,face:0,fact:[3,6],factor:[0,2,4],fall:[0,6],familiar:6,famou:[2,3,4],far:[0,6],featur:[3,4],feel:3,few:[0,1,3,4,6,10],fft:5,field:[0,2],fig1:0,fig:[4,14],figsiz:14,figur:[0,1,2,3,4,7],file:13,filter:[2,4,11],find:[0,1,2,3,6,7,8,11],finit:[2,6,8],fire:1,first:[0,1,2,3,4,6,7,8,11,12],fix:[8,14],flat:4,flatten:6,flavor:12,float64:3,flow:0,flowchart:2,fluid:3,flux:6,focu:[2,3],follow:[0,1,2,3,4,6,7,8,12,13],forc:[0,1,2,8,11],forget:3,form:[2,3,6,7,8,11],formul:11,formula:11,forth:[0,2,3],found:[0,4],four:7,fourier:[2,3,6,8,11],frac:[0,1,2,3,4,6,7,8],fraction:2,free:0,frequenc:[2,4],friction:6,from:[0,1,2,3,4,6,8,14],fundament:1,further:[0,1,3,4],gamma:3,gap:2,gas:0,gaussian:6,gdt:0,gener:[0,2,4,8,11],geometr:4,geometri:3,geophys:3,geq2:3,geq:3,get:[0,1,2,3,6,7,13],gibb:11,give:[0,1,2,3,4],given:[1,2,3,4,6,7,8],goal:[2,6],goe:[2,4],going:8,gonna:[4,8],gradient:6,gradual:6,graviti:0,great:4,greater:2,green:11,greenhous:0,grid:3,growth:2,guess:[1,2,4,6],guid:14,hack:3,had:0,hadlei:3,half:6,hand:[0,1,2,3,6],handl:2,happen:[2,3,6],hard:[3,7,8],harmon:[1,3,7],has:[0,1,2,3,4,6,7,8,12],hat:[1,6],have:[0,1,2,3,4,6,7,8,13],heat:[0,1,3,7,8,11],heavili:4,heavisid:11,height:2,help:[0,1,11],here:[0,1,2,3,4,6,8,12,14],hermit:4,hermitian:4,high:[2,4],higher:[0,1,2,3,4,6,11],hint:[0,2,3],his:[0,4],histori:11,hold:1,holdgraf_evidence_2014:12,homogen:[3,4,6,8,11],hook:8,hopefulli:11,hot:14,how:[0,1,4,6,7,8,10,11,13],howev:[0,1,4,6],html:14,hurrican:[2,4],hwang:2,hyperbol:11,i2x:1,ib_n:6,idea:[0,8],ideal:0,ident:[2,4],identifi:1,ignor:0,iii:[4,11],ikx:6,illustr:3,imag:[5,14],imagin:1,imaginari:[3,5],implement:4,impli:[1,4,6,8],implicit:11,implicitli:0,imposs:0,impuls:11,includ:[0,1,6,11,12,13,14],increas:[1,4],increment:8,inde:[1,3,4],independ:[0,3,6,8,11],index:3,indic:[0,1,2,3,4,6,7,8],induct:3,infer:7,infin:2,infinit:[2,3,4,6],inflow:3,influenc:3,inform:[0,12,13,14],infti:[0,2,3,4,6,7,8],inhomogen:[3,4],init:[12,13],initi:[0,6,11],inner:[3,4],input:12,insert:12,insid:12,inspect:[0,1,2],instead:[1,4,6],instruct:13,int_0:2,int_:[2,3,4,6,7,8],int_a:2,integ:[0,3,4],integr:[0,1,2,3,4,6,8],integrat:0,intensif:3,interact:14,interest:[2,3,4,6],interpret:1,interv:1,intro:12,introduc:[1,2,3,4,6,7],intuit:[2,6],invers:[2,6],involv:1,ion:14,ipynb:12,itcz:[0,4],its:[0,1,2,3,4,6,8,12],j_0:3,j_4:3,j_n:3,jacobian:8,jacqu:4,jean:8,joseph:[4,6],julia:4,jump:[2,4],jupyt:[12,13,14],jupytext:[12,13],just:1,kappa:6,kappa_:6,kappa_c:6,kappa_ct:6,kct:8,keep:[6,14],kei:[1,6],kernel:[6,12,13],kind:[0,1,3,4,6,12],know:[0,1,2,3,4,6,7,8],known:[0,3,8],ku_:6,kv_:6,la_:14,label:[4,5],lambda:[3,4,6,7,8],lambda_n:[4,7],langl:4,languag:[0,12],laplac:[1,3,4,11],last:[0,3,4,6],later:[1,2,3,4,6],law:[0,6,8],lead:[0,1,2,3,4,6],learn:[0,1,2,4,11,12],least:[0,1,6],leav:[0,1,3,4,6,8],left:[0,1,2,3,4,6],legend:[5,14],legendr:[4,7,11],legendre_even:3,length:[3,4,8],leq:[4,6,7,8],less:[2,12],let:[0,1,2,3,4,6,7,8,13],leverag:[1,2,3,4],lib:5,like:[0,1,2,3,4,6,12,13],lim:3,lim_:[3,4],limit:[0,2,6],line2d:14,line:[3,11,12,13,14],linear:[1,2,4,6,7,8,11],linearli:[1,3],linspac:14,liouvil:[3,6,7,11],local:[1,2,6],locat:[0,1,4],logspac:14,longest:4,longrightarrow:[2,4],look:[0,2,3,4,6,8,12],loop:2,lorenz:0,lot:[0,1,2,4,14],lower:[0,2,3,7],luckili:0,machin:2,maclaurin:3,main:[1,11],make:[0,1,2,4,6,8,14],mani:[0,1,2,3,10,12,13],map:2,markdownfil:13,markedli:12,markup:12,mask:2,match:4,materi:[6,8],math:[0,4,11,14],mathbb:[4,6],mathbf:1,mathcal:[2,6],mathemat:[2,4,6,11,12],mathematician:4,mathrm:0,matplotlib:[5,14],matrix:[4,5,8],maximum:[3,4],mbox:14,mean:[0,1,2,6,8,14],mechan:4,medium:[4,14],memor:4,mention:1,mere:0,meridion:3,metadata:12,method:[1,2,8],middl:2,might:1,mimic:1,miniconda3:5,minimum:4,mix:6,mode:[3,6],model:[0,4,6],molecular:6,moment:4,momentum:[3,4],more:[0,1,2,3,4,6,8,11,12,13,14],moreoev:12,most:[0,1,3,4,8,12],motion:1,move:[0,6],much:[1,3,8],multipl:[0,1,2,3,4,8],multipli:[0,1,2,3,4,5],must:[4,12],mydirectivenam:12,n_max:3,nabla:[3,7],name:[4,8,12],nearbi:6,nearli:[2,4],necessari:[0,2,6],necessarili:6,need:[0,1,2,3,4,6,13],neighbor:[4,6],neil:[11,12],neq:[3,4,6],neumann:11,nicknam:2,nj_:3,nois:[2,5],noisi:2,non:[0,1,2,3,4,7],nonhomogen:11,nontrivi:3,nonzero:[3,4],normal:[3,5],note:12,notebook:12,noth:[4,7],notic:[0,1,2,4,6],now:[0,1,2,4,6,8],np_:3,nth:3,number:[2,3,4,6,8],numer:[0,2,11],numpi:[5,14],object:0,observ:[1,2,3,4,6,8],obtain:[0,3,4],occupi:6,occur:4,ocean:1,odd:[3,8],off:13,omega:7,onc:12,one:[0,1,2,3,4,6,7,8,12],oneil17:[11,12],onli:[0,1,3,4,6,7,8,12],onto:[2,6],open:1,oper:[0,2,4],opposit:[7,8],optic:8,order:[2,3,4,6,8,11],ordinari:[0,1,4,11],organ:2,origin:[1,2,6,8],oscil:1,other:[0,1,2,3,4,7,8,13],otherwis:[0,1],our:[0,2,4,6],out:[0,2,4,6,14],output:[12,13],outsid:[4,6],over:[1,2,3,4,6,8],overturn:0,p_0:3,p_1:3,p_2:3,p_3:3,p_4:3,p_n:3,packag:5,page:[12,13],panel:[2,7],paper:3,parabol:[3,4],paramet:[1,4,6],part:[2,3,5,6,7,11],partial:[0,3,4,6,8,11],particl:1,particular:[0,11],partit:0,path:[0,12,13],pattern:12,peopl:4,perhap:[1,2],period:4,peter:[11,12],phenomena:3,phenomenon:[0,11],phi:3,physic:[2,3,4,6,8,11],pictur:[2,4],piec:1,place:[0,6],plai:[3,4],plain:0,plane:[8,11],plate:6,plot:[3,4,5,14],plt:[5,14],plu:2,pm2i:1,point:[0,1,2,4],poisson:11,polar:[3,7],pole:3,polynimi:11,polynomi:[1,4,7],posit:[4,8],possibl:[0,1,2,6],post:14,potenti:[0,11],power:[1,3,11,12],practic:[0,3,4,6,8],pre:12,precis:[0,4],predict:[1,4],predictor:4,prerequisit:11,presenc:13,pressur:0,previou:[1,2,6],previous:4,principl:[1,4],print:[5,12,13],probabl:4,problem:[0,3,4,11],procedur:[0,3],process:[2,3],process_tim:5,product:[1,3,4],project:[2,6],proof:[0,1,2,3],prop_cycl:14,propag:8,proper:[0,4],properli:[4,8,12],proport:[0,6],prove:[1,3,4],provid:[0,2,4],psi:[3,4,6,8],psi_:6,puls:2,purpos:[6,12],pursuit:0,put:[3,6],pyplot:[5,14],python3:5,quantiti:2,quantum:[3,4],question:[0,3,4,6,8,11],quick:0,quickli:6,r_1:1,r_1x:1,r_2:1,r_2x:1,radi:0,radial:3,radiat:[1,4,6],randn:14,random:[5,14],rang:[3,4,14],rangl:4,rare:[0,7],rate:[2,6],ration:6,raw:[2,5],rayleigh:0,rcparam:14,rdt:0,reader:[0,1,2,3,4,6,7,8],real:[2,4,5,8,11],rearrang:[0,2,3,6],reason:3,recal:[1,2,3,4,6],recurr:[1,11],redistribut:6,reduc:[0,4],refer:[3,12],region:6,regress:4,regular:[4,12],rel:[0,12],relat:[0,1,7,8,11],relationship:[3,11],remain:2,remov:[0,4],render:12,reorgan:[0,1,2,3,4,6],repeat:2,replac:[0,3],repres:[0,1,3,4,6,8],reproduc:14,requir:[0,1,11],research:11,reshap:4,resolv:4,respect:[0,3,6,8],respons:[0,1],rest:[12,13],restor:8,result:[1,3,4,6,8,12],retain:4,retangl:[],retriev:3,rewrit:[0,1,2,3,8],rewritten:[6,8],rho:6,riccati:11,rid:0,right:[0,1,2,3,4,6],rightarrow:[3,4,6,8],rise:3,river:0,role:[2,3,4],rolenam:12,root:2,rossbi:0,rule:[1,2,3,7],run:[2,12,13],s_1t:2,s_2t:2,sai:[0,2],same:[0,1,2,3,4,6,7,8,12],sampl:14,satisfi:[0,3,4,6,7,8],scale:6,scatter:4,scenario:1,schemat:[0,1,2],schubert:3,scienc:[0,2,3,6,8,11],scientif:[4,11],sec:[0,1],second:[1,2,3,4,5,6,7,8,11],section:[1,4,10],see:[0,1,2,3,6,7,12,13,14],seed:14,seen:1,self:4,separ:[3,4,6,7,8,11],seri:[2,11],serv:12,server:1,set:[1,2,3,4,6,7,8,11],setup:[2,4,11],sever:3,shape:2,share:[0,1,2,4,5,8],shift:[4,11],shock:2,should:[0,1,2,4,6,13],show:[0,1,2,3,4,8,13],shown:1,side:[0,1,2,3,6,7],sign:[4,6,7,8,14],signal:[2,4,5,6],signific:3,sim:[3,6,8],similar:[0,1,2,3,4,6,7,8,12],similarili:6,similarli:[0,2,3,4,8],simpl:[1,4,6,8],simpler:8,simplest:[1,3,6,12],simpli:[0,1,4,6],simplic:6,simplif:6,simplifi:[2,3],sin:[0,1,2,3,6,7,8],sinc:[0,1,2,3,4,7],singular:4,sinh:[2,7],sit:1,site:5,size:[2,5,6],skill:11,slight:12,slightli:[2,8],small:[2,4,6,8,12],smaller:3,smooth:[2,6],solut:[0,2,7,11],solv:[0,1,2,3,4,6,7,8,11],solvabl:6,some:[0,2,3,4,6,11,12,14],someth:[2,3],sometim:[2,3],sourc:[1,6],space:[1,3,4,6,7,11],span:[1,4,12],spatial:6,special:[0,1,2,4,6,7,8,11],specialfunct:3,specif:[0,6,8,12],specifi:[2,4,7],spectrum:11,speed:[0,8],sphere:3,spheric:3,sphinx:12,spread:4,sqrt:[0,1,2,3,4,6,8],squar:[0,4,6],sst:[1,2],st_:2,stage:1,stand:12,start:[0,1,2,5,6,13],state:[1,14],statist:4,stead:6,step:[0,1,2,3,4,6],still:[1,2],store:12,stove:1,str:5,straightforward:0,stretch:[4,8],strict:4,string:[8,11],structur:[3,6,7,12],student:11,studi:[2,3,6],sturm:[3,6,7,11],subject:0,subplot:[5,14],substitut:[0,1,2,3,4,6,7,8],subtract:[2,3],suggest:[1,3,4,6,8],sum:[1,3,8],sum_:[1,3,4,6,7,8],sum_i:1,sum_legendre_even:3,sum_x:3,summat:4,superposit:1,support:13,suppos:[6,8],sure:14,surround:4,swap:4,swim:0,swimmer:0,syllabu:12,syntax:12,system:[0,1,4],t_0:2,t_1:[2,6],t_2:[2,6],t_i:2,t_k:8,t_n:[6,8],take:[0,1,2,3,4,5,6],taken:1,talk:1,tan:[0,1,4],tangenti:3,tau:[2,6],taylor:[1,3],techniqu:[0,1,2,7,11],tell:[0,1,2,4,6],temperatur:[0,1,3,4,6],tempor:[6,8],term:[0,1,2,3,4,6,8],termin:0,test:[0,4,11],tex:14,text:[2,4,12,13],textbook:4,textrm:[2,3,4,6,7,8],than:[0,1,2,3,4,6],thei:[1,3,4,12],them:[0,1,3],theorem:[6,7,11],therefor:[0,1,2,3,4,6,7,8],thermal:[4,6],thermodynam:0,theta:[3,7],thi:[0,1,2,3,4,6,7,8,10,11,12,13,14],thin:4,thing:[3,4,13],think:[2,3,6,8],third:[1,3,4],those:[1,7,12],three:[0,1,2,4,6,7,11],through:[0,1,2,3,4,6,11],thu:6,time:[0,1,2,5,6,12],ting:2,tip:[2,10],todai:[0,1,2,7],togeth:[6,8],tool:12,top:[2,13],topic:11,total:7,tradit:0,trajectori:0,transform:[0,1,3,6,8,11],transpos:4,transvers:[0,2,3,4],travel:0,treat:13,trick:6,trigonometr:1,trivial:[1,3,4],tropic:[0,3,4],truncat:[3,4],twice:8,two:[0,1,2,3,4,6,7,8,12,13],type:[0,1,6,11],typic:3,u_1:1,u_2:1,u_i:7,u_r:7,u_t:6,u_x:6,u_xx:6,ubiquit:8,unbound:3,uncertainti:4,undermin:1,understand:[1,6,13],undetermin:[1,2],uneven:3,unfortun:0,uniqu:[2,4,11],unit:2,until:2,upper:[2,7],use:[0,1,2,3,4,6,7,12],used:[0,1,2,3,4,11,12],useful:3,user:5,uses:[12,13],using:[0,1,2,3,4,6,7,8,13],usual:[0,1,2,3,4,6],v_t:6,v_x:6,v_xx:6,valid:12,valu:[0,3,4,5,8,11],vanish:3,vari:6,variabl:[0,3,4,6,7,8,11],varianc:4,variat:[1,4,6,12],varieti:11,varphi:[0,4],varphi_k:4,varphi_n:4,vector:[0,4],vein:[0,6],veloc:[0,1,8],veri:[0,1,2,3,6,11,12],verifi:6,versa:6,vertic:[3,7],vibrat:8,vice:6,visual:[2,3,4,6],vmatrix:[1,4],volum:0,wai:[0,1,2,3,4,6,7,10],walk:[0,1,2,4,11],want:[4,6,7,14],warm:1,wave:[0,2,4,6,7,11],wavi:3,weber:3,week:11,weight:3,well:[0,8,14],were:4,what:[1,4,6,11],when:[0,1,2,3,4,6,7,12,13],where:[0,1,2,3,4,6,8],wherea:12,whether:[4,12],which:[0,1,2,3,4,6,7,8,11,12,13],white:5,white_nois:5,who:0,whole:[0,7],why:[1,3,6,8],wide:[0,1,2,3,11],width:4,wiggl:[2,4],wikipedia:1,wind:3,window:[2,11],within:6,without:[0,1,4,6],wok:1,work:[0,11,12,14],world:2,worri:0,would:[0,2,4],write:[0,6,10,12,13],written:[0,1,2,3,4,6,7,8,12,13],wronskian:[4,11],x_0:[0,1,8],x_i:1,x_j:1,x_n:[6,7,8],x_t:8,xai:1,xdx:0,xlim:[4,5],xp_n:3,xyt:6,y_1:[0,1],y_2:[0,1],y_g:1,y_i:1,y_n:[6,7,8],y_p:1,y_t:8,y_x:8,yen:2,yield:[0,2],ylim:4,you:[0,1,11,12,13,14],your:[13,14],zero:[1,2,3,4,6,7],zonal:3},titles:["Week 1 and 2: 1st-order ODE","Week 3 and 4: 2nd-order ODE","Week 5 and 6: Laplace Transform","Week 9 and 10:  Special Functions","Week 7 and 8:  Sturm-Liouville Theorem: Eigenfunctions and Fourier Series","&lt;no title&gt;","Week 11:  Heat Equation","Week 13:  Laplace Equation","Week 12:  Wave Equation","Applied_Math","Content in Jupyter Book","Syllabus","Markdown Files","Notebooks with MyST Markdown","Content with notebooks"],titleterms:{"1st":0,"2nd":1,"case":1,"function":[2,3,4],Adding:12,ODE:[0,1],The:[1,3,4],Using:12,add:13,alembert:8,analysi:4,applied_math:9,approach:2,basic:1,bernoulli:0,bessel:3,block:14,book:[10,11],both:4,boundari:4,categori:[0,1],cell:13,characterist:8,citat:12,code:[12,14],coeffici:[1,4],complex:1,condit:[4,7,8],constant:1,content:[10,14],continu:2,convect:6,convolut:2,cos:4,cours:11,creat:13,delta:2,differ:1,diffus:6,dirac:2,direct:12,dirichlet:7,disk:7,dispers:8,distinct:1,eigenfunct:4,equat:[1,6,7,8],euler:1,exact:0,exampl:[0,1,2,4,6,8,13],execut:12,exist:1,expans:4,file:12,find:4,forc:6,form:[0,1,4],formula:6,fourier:4,gener:[1,3],gibb:4,green:2,heat:6,heavisid:[2,4],histori:6,homogen:[0,1],how:2,iii:1,impuls:2,inclus:6,independ:1,initi:[1,2,7,8],insul:6,jupyt:10,laplac:[2,7],legendr:3,line:8,linear:0,liouvil:4,markdown:[12,13,14],medium:8,metadata:13,modifi:3,motion:8,myst:[12,13,14],nonhomogen:[1,6],note:[3,4],notebook:[13,14],order:[0,1],origin:3,orthogon:4,other:6,outlin:11,output:14,particular:1,phenomenon:4,piecewis:2,plane:6,polynomi:3,power:4,problem:[1,2,6,7,8],process:6,proof:4,properti:1,quickli:13,real:[1,6],rectangl:7,recurr:3,relat:3,relationship:8,repeat:1,riccati:0,role:12,root:1,separ:0,seri:[1,3,4],setup:[7,8],shift:2,sin:4,solut:[1,3,4,6,8],some:1,space:[2,8],special:3,spectrum:4,stick:6,string:6,structur:8,sturm:4,syllabu:11,tabl:2,test:1,theorem:[1,2,4],time:8,transform:[2,4],type:4,unbound:8,uniqu:1,valu:[1,2],wave:8,week:[0,1,2,3,4,6,7,8],weight:4,what:[0,2,12],window:4,work:2,wronskian:1,yaml:13,your:12}})

diff --git a/PDE/Fourier_Transform.html b/PDE/Fourier_Transform.html
@@ -404,7 +404,7 @@ title="Print to PDF"
 </div>
 </div>
 <div class="cell_output docutils container">
-<div class="output text_plain highlight-myst-ansi notranslate"><div class="highlight"><pre><span></span>&lt;matplotlib.legend.Legend at 0x10422c4f0&gt;
+<div class="output text_plain highlight-myst-ansi notranslate"><div class="highlight"><pre><span></span>&lt;matplotlib.legend.Legend at 0x105c184f0&gt;
 </pre></div>
 </div>
 <img alt="../_images/Fourier_Transform_0_1.png" src="../_images/Fourier_Transform_0_1.png" />
@@ -434,9 +434,9 @@ title="Print to PDF"
 </div>
 </div>
 <div class="cell_output docutils container">
-<div class="output stream highlight-myst-ansi notranslate"><div class="highlight"><pre><span></span>A_k=[[0.9874316]]
-B_k=[[-0.00044472]]
-takes：0.401871 seconds
+<div class="output stream highlight-myst-ansi notranslate"><div class="highlight"><pre><span></span>A_k=[[0.98164155]]
+B_k=[[0.03946784]]
+takes：0.265382 seconds
 </pre></div>
 </div>
 <div class="output stderr highlight-myst-ansi notranslate"><div class="highlight"><pre><span></span>/Users/Shared/miniconda3/envs/default_env2/lib/python3.9/site-packages/matplotlib/cbook/__init__.py:1298: ComplexWarning: Casting complex values to real discards the imaginary part
@@ -460,8 +460,8 @@ takes：0.401871 seconds
 </div>
 </div>
 <div class="cell_output docutils container">
-<div class="output stream highlight-myst-ansi notranslate"><div class="highlight"><pre><span></span>A_k=[[0.9874316]]
-B_k=[[-0.00044472]]
+<div class="output stream highlight-myst-ansi notranslate"><div class="highlight"><pre><span></span>A_k=[[0.98164155]]
+B_k=[[0.03946784]]
 </pre></div>
 </div>
 </div>
@@ -479,7 +479,7 @@ B_k=[[-0.00044472]]
 </div>
 </div>
 <div class="cell_output docutils container">
-<div class="output stream highlight-myst-ansi notranslate"><div class="highlight"><pre><span></span>takes：0.005068 seconds
+<div class="output stream highlight-myst-ansi notranslate"><div class="highlight"><pre><span></span>takes：0.004233 seconds
 </pre></div>
 </div>
 <div class="output stderr highlight-myst-ansi notranslate"><div class="highlight"><pre><span></span>/Users/Shared/miniconda3/envs/default_env2/lib/python3.9/site-packages/matplotlib/cbook/__init__.py:1298: ComplexWarning: Casting complex values to real discards the imaginary part

diff --git a/PDE/Laplace_equation.html b/PDE/Laplace_equation.html
@@ -483,6 +483,11 @@ u(x,y) = f(x,y) \; \textrm{  for  } x^2+y^2 = R^2
 <span class="eqno">(226)<a class="headerlink" href="#equation-eq226" title="Permalink to this equation">¶</a></span>\[\begin{align}
 \nabla^2 U(r,\theta) = U_{rr}+\frac{1}{r}U_r+\frac{1}{r^2}U_{\theta\theta} \; \textrm{  for  } -\pi\leq \theta \leq \pi
 \end{align}\]</div>
+<p>For <a class="reference internal" href="#equation-eq226">(226)</a>, we know three basis form a completed solution space.</p>
+<div class="math notranslate nohighlight" id="equation-eq227">
+<span class="eqno">(227)<a class="headerlink" href="#equation-eq227" title="Permalink to this equation">¶</a></span>\[\begin{align}
+1,r^n\cos(n\theta),r^n\sin(n\theta)
+\end{align}\]</div>
 </div>
 </div>
 

diff --git a/notebooks.html b/notebooks.html
@@ -458,7 +458,7 @@ For example, here’s some sample Matplotlib code:</p>
 </div>
 </div>
 <div class="cell_output docutils container">
-<div class="output text_plain highlight-myst-ansi notranslate"><div class="highlight"><pre><span></span>&lt;matplotlib.pyplot._IonContext at 0x104d22520&gt;
+<div class="output text_plain highlight-myst-ansi notranslate"><div class="highlight"><pre><span></span>&lt;matplotlib.pyplot._IonContext at 0x108923700&gt;
 </pre></div>
 </div>
 </div>

diff --git a/_sources/PDE/Laplace_equation.md b/_sources/PDE/Laplace_equation.md
@@ -169,3 +169,13 @@ We can first apply chain rule to find the diffusion in polar coordinate. (see {r
 \end{align}
 ```
 
+For {eq}`eq226`, we know three basis form a completed solution space. 
+
+
+```{math}
+:label: eq227
+\begin{align}
+1,r^n\cos(n\theta),r^n\sin(n\theta)
+\end{align}
+```
+
